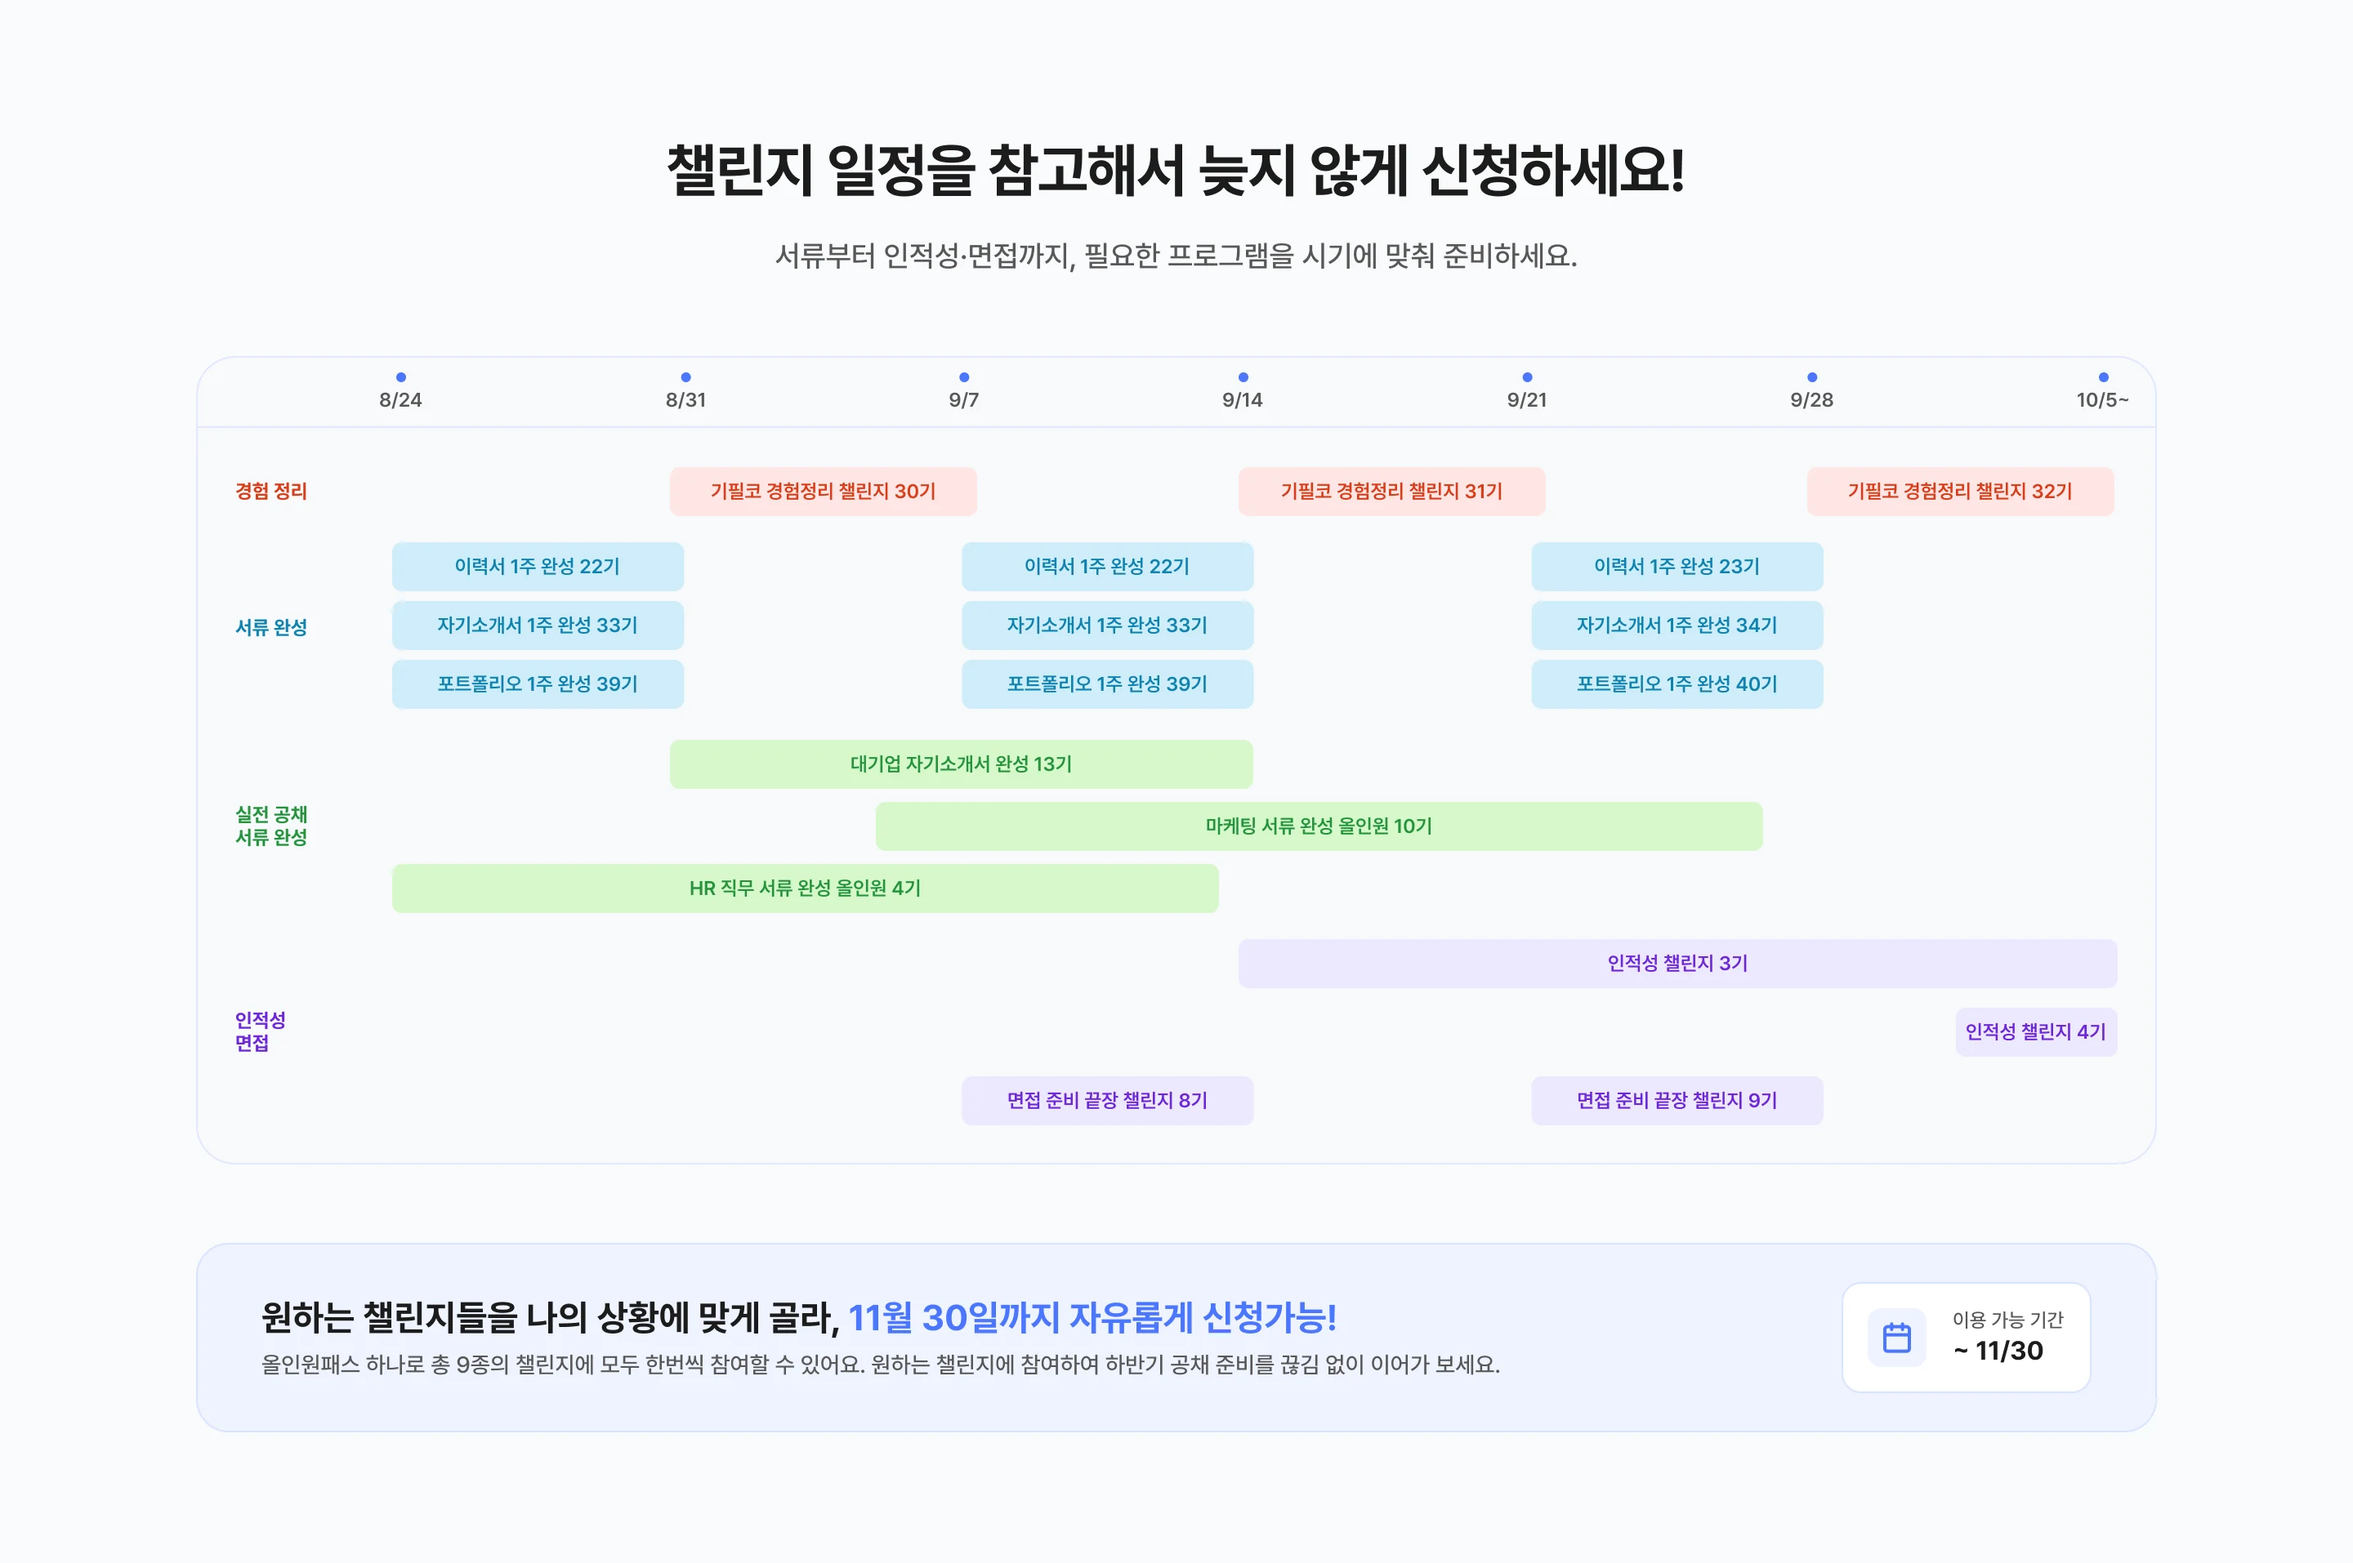
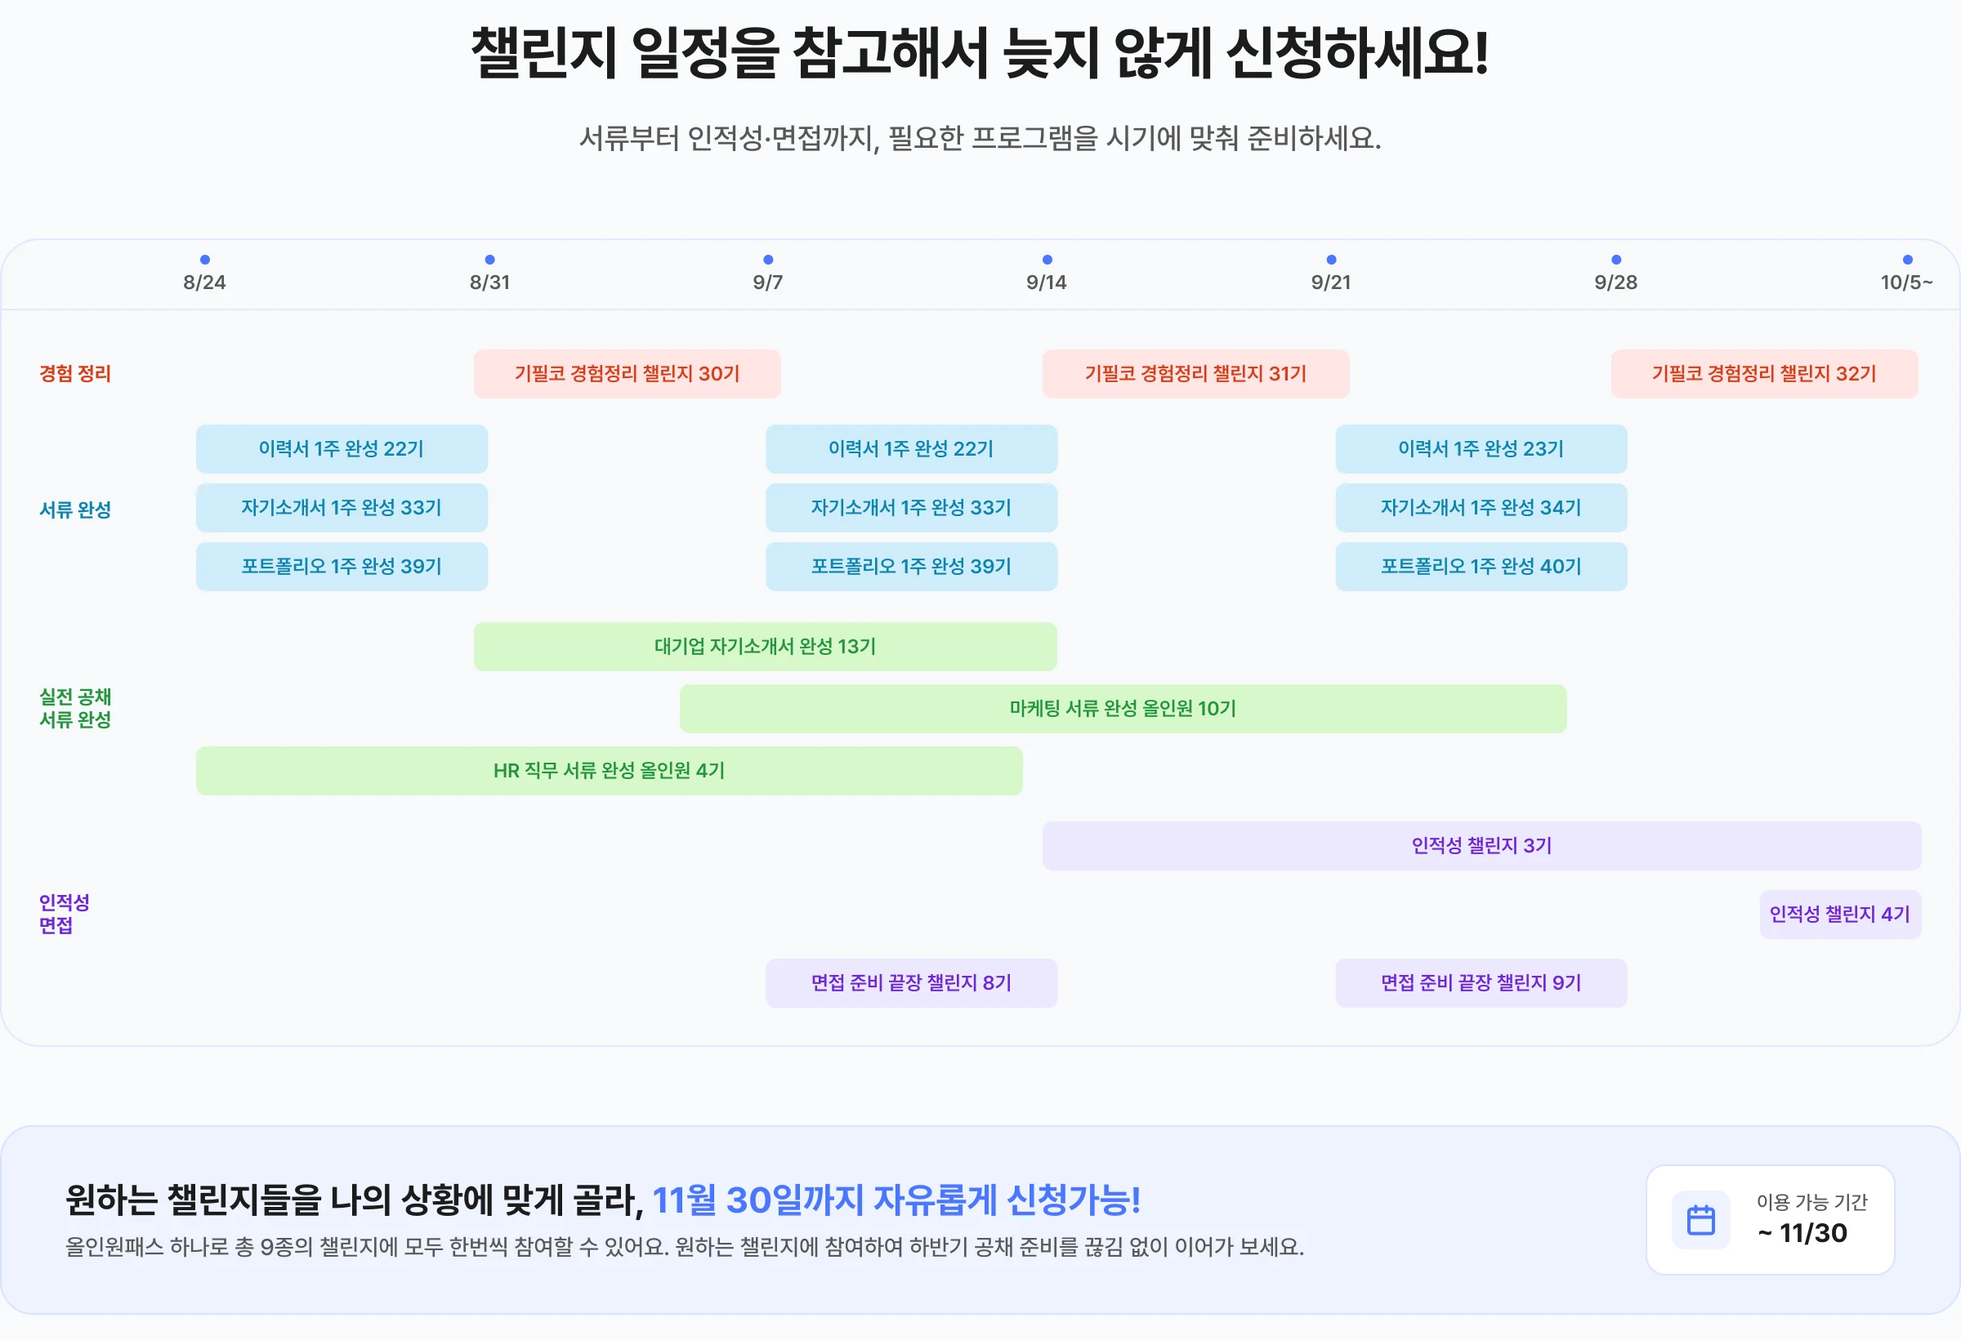
style(membership): 간트 이미지 여백을 잘라 옆 섹션과 글자 크기를 맞춤
시안 5.png 를 그대로 1440px 에 넣으면 이미지 안 헤딩이 약 28px 로 그려져
옆 섹션 h2(36px)보다 작아 보인다. 좌우 여백 각 240px 을 걷어내 같은 폭에서
콘텐츠가 1.2배가 되게 했다.

diff --git a/apps/web/src/domain/membership/section/ChallengeScheduleSection.tsx b/apps/web/src/domain/membership/section/ChallengeScheduleSection.tsx
@@ -13,10 +13,13 @@ import { GANTT_ALT } from '../data/challengeSchedule';
  * 좁은 폭에서는 `.gantt-scroll` 안에서만 가로로 스크롤된다(페이지는 스크롤되지 않는다).
  * `domain/membership` 은 `next/image` 를 쓰지 않으므로 width/height 를 직접 넣어 CLS 를 막는다.
  */
+// 시안 5.png 에서 좌우 여백(각 240px)을 잘라낸 판이다.
+// 원본 그대로 1440px 폭에 넣으면 이미지 안 헤딩이 약 28px 로 그려져 옆 섹션 h2(36px)보다
+// 작아 보인다. 여백을 걷어내면 같은 폭에서 콘텐츠가 1.2배로 커져 34px 가 되어 눈에 맞는다.
 const GANTT_FULL = {
   src: '/images/membership/gantt-full.webp',
-  width: 2880,
-  height: 1914,
+  width: 2400,
+  height: 1641,
 };
 
 export default function ChallengeScheduleSection() {

diff --git a/apps/web/src/domain/membership/section/ChallengeScheduleSection.test.tsx b/apps/web/src/domain/membership/section/ChallengeScheduleSection.test.tsx
@@ -14,8 +14,8 @@ describe('ChallengeScheduleSection', () => {
     render(<ChallengeScheduleSection />);
     const img = screen.getByRole('img');
     expect(img).toHaveAttribute('src', '/images/membership/gantt-full.webp');
-    expect(img).toHaveAttribute('width', '2880');
-    expect(img).toHaveAttribute('height', '1914');
+    expect(img).toHaveAttribute('width', '2400');
+    expect(img).toHaveAttribute('height', '1641');
   });
 
   it('CLS 방지를 위해 width·height 를 직접 지정한다', () => {
